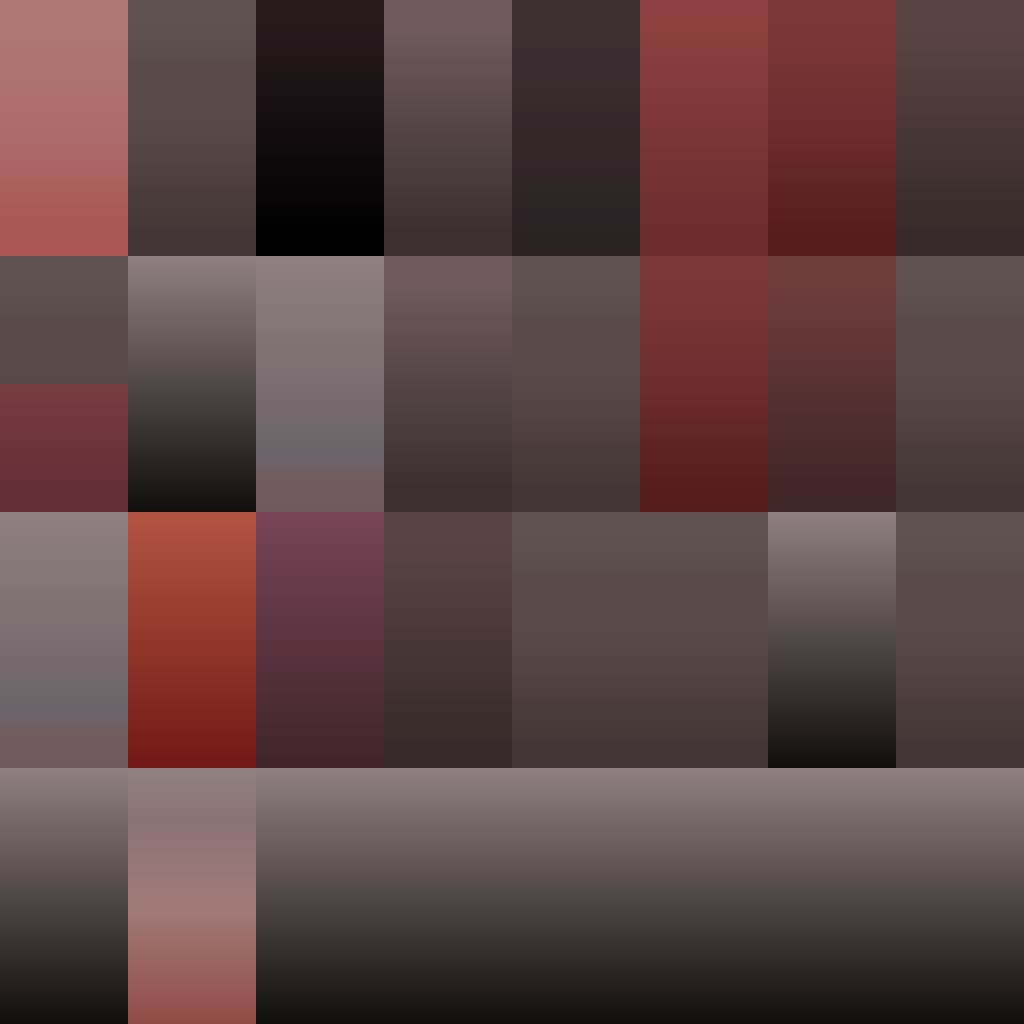
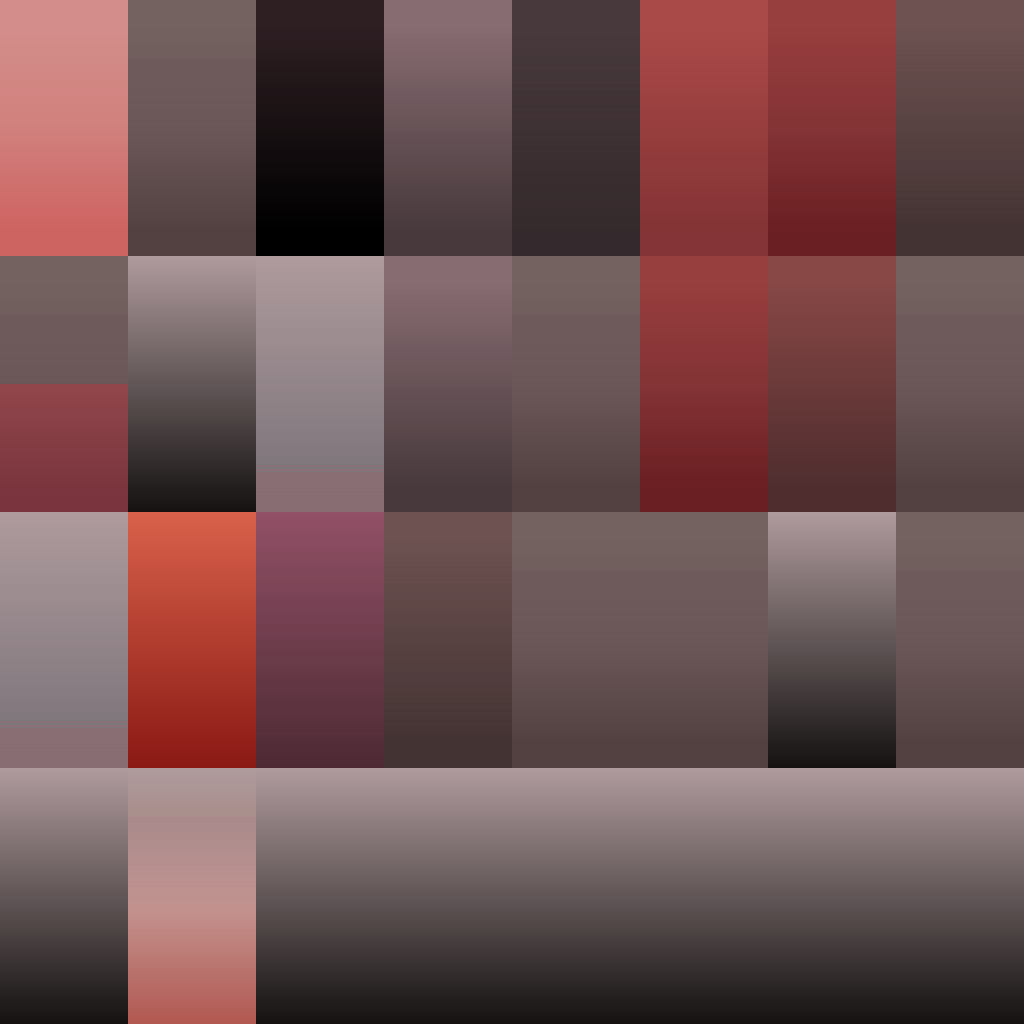
fix: reforca o tema abobora e clareia o tema vampiro das skins

diff --git a/Tools/gerar_skins_halloween.py b/Tools/gerar_skins_halloween.py
@@ -30,10 +30,10 @@ CLASSES = {
 
 # skin -> (matiz alvo em graus, mult. saturacao, mult. brilho, cor p/ tingir cinzas, forca do tingimento)
 TEMAS = {
-    "abobora":  (28.0, 1.20, 1.05, (255, 140, 40), 0.22),
+    "abobora":  (28.0, 1.55, 1.05, (255, 130, 20), 0.40),
     "fantasma": (190.0, 0.25, 1.30, (190, 230, 255), 0.40),
     "zumbi":    (100.0, 0.85, 0.85, (110, 140, 70), 0.28),
-    "vampiro":  (352.0, 1.05, 0.70, (90, 10, 20), 0.30),
+    "vampiro":  (352.0, 1.10, 0.85, (90, 10, 20), 0.30),
     "bruxa":    (275.0, 1.00, 0.90, (120, 60, 160), 0.25),
 }
 
